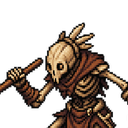
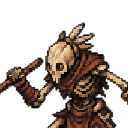
por-01: rebuild 17 stale turn-order portraits from post-density art; builder verification test; clock probe

Changed region(s): [[0.0, 0.1562, 1.0, 1.0], [0.4688, 0.7188, 0.5, 0.75]]

diff --git a/tests/turn_order_portraits_test.py b/tests/turn_order_portraits_test.py
@@ -1,0 +1,42 @@
+#!/usr/bin/env python3
+"""Verify every builder-owned portrait against its current shipped source.
+
+Run directly, or discover with: python3 -m unittest discover -s tests -p '*_test.py' -v
+The builder owns the key list and crop rules; this test must not duplicate them.
+"""
+
+from pathlib import Path
+import subprocess
+import sys
+import unittest
+
+
+ROOT = Path(__file__).resolve().parents[1]
+PASS_LINE = "TURN ORDER ASSETS: PASS (verify; all)"
+
+
+class TurnOrderPortraitTests(unittest.TestCase):
+    def test_all_portraits_match_shipped_source_crops(self):
+        result = subprocess.run(
+            [
+                sys.executable,
+                str(ROOT / "tools/godot_task_runner.py"),
+                "--task-id", "por-01",
+                "--stream",
+                "--",
+                "godot", "--headless", "--path", str(ROOT),
+                "--script", "tools/build_turn_order_assets.gd",
+                "--", "--verify-only",
+            ],
+            cwd=ROOT,
+            text=True,
+            stdout=subprocess.PIPE,
+            stderr=subprocess.STDOUT,
+        )
+        self.assertEqual(result.returncode, 0, result.stdout)
+        self.assertIn(PASS_LINE, result.stdout)
+        print(PASS_LINE)
+
+
+if __name__ == "__main__":
+    unittest.main()
